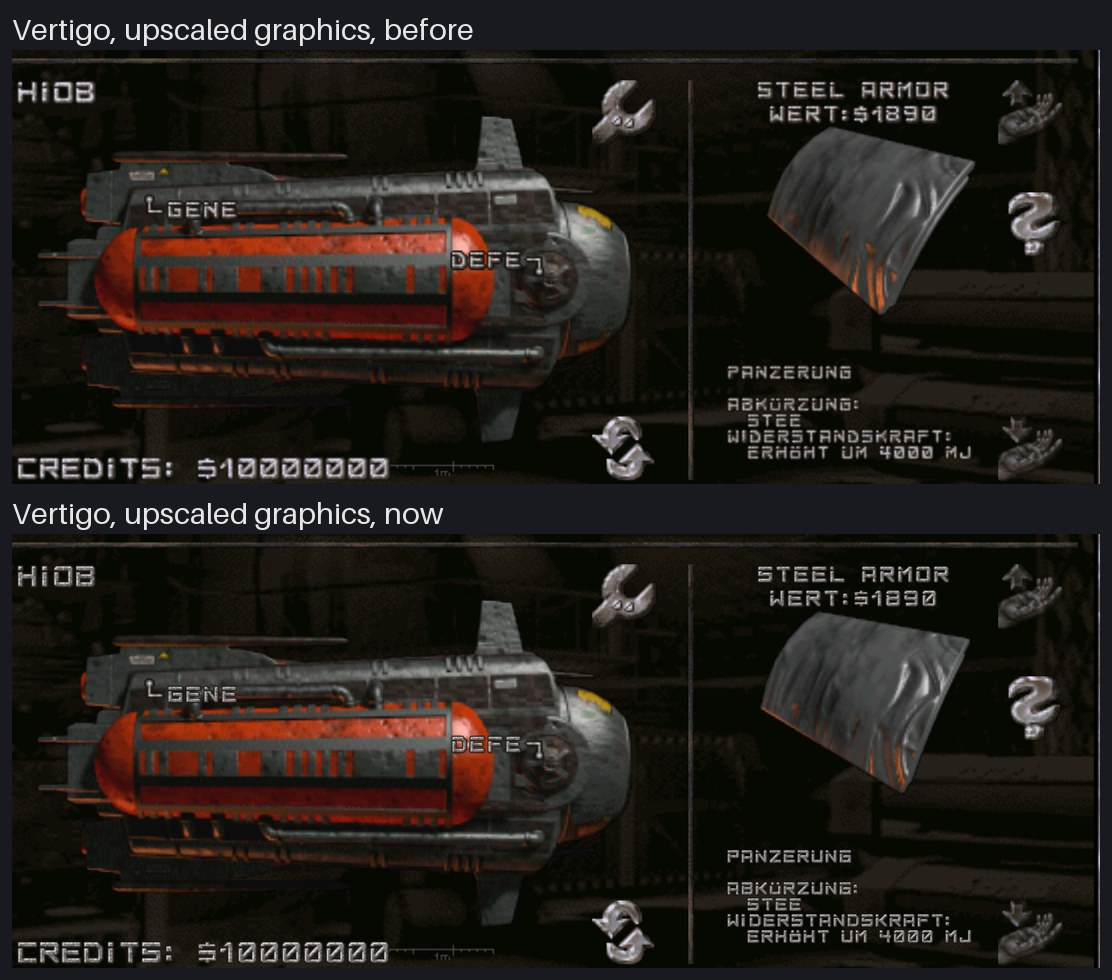
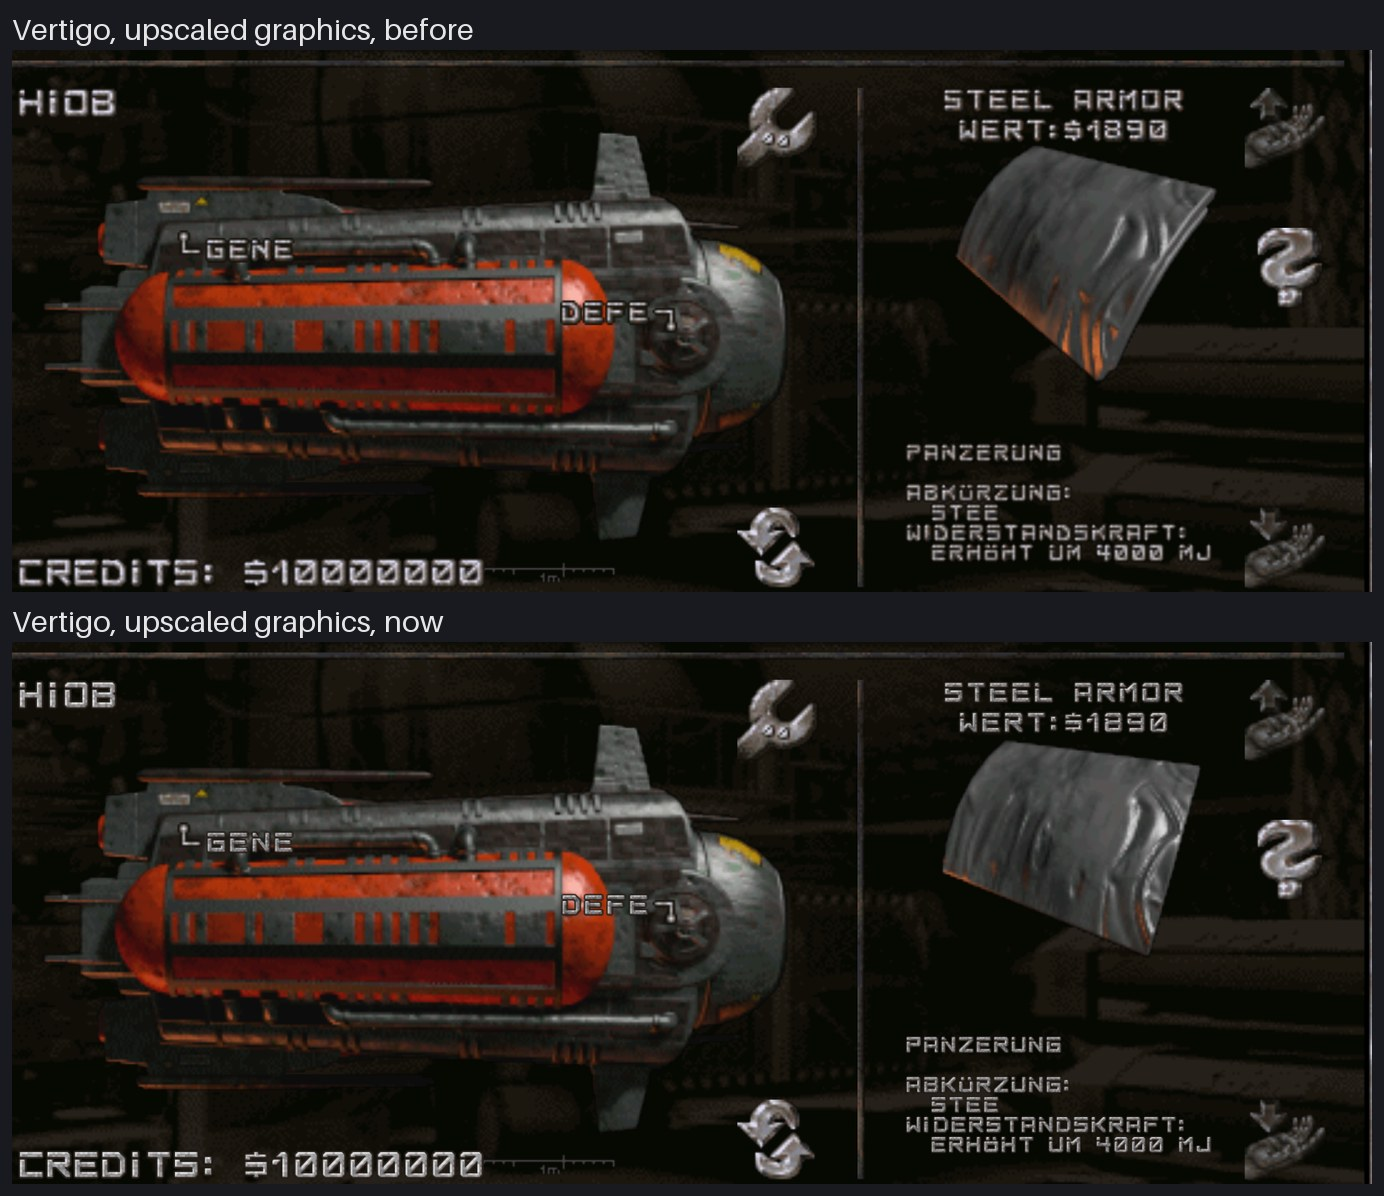
Font: the large vector font as bright as the game's
The game's large font has lighter insides than its medium and small
fonts, which the vector style matches. The large font's vector glyphs
are now brightened inside, not at their outline, with a gamma of 1.4.
The comparison pictures are remade at the screenshots' own scale.

diff --git a/src/gfx/font.cpp b/src/gfx/font.cpp
@@ -63,13 +63,14 @@ const VectorFont* vectorFont()
 
 // the vector font's glyph for a game glyph, as opaque as the game glyph is (the depot draws a
 // half transparent silver font)
-Image vectorGlyph(const VectorFont &font, int index, const Image &image, int scale, double size, const std::vector<Rgb> &palette)
+Image vectorGlyph(const VectorFont &font, int index, const Image &image, int scale, double size, double gamma,
+                  const std::vector<Rgb> &palette)
 {
     int opacity = 0;
     for (int y = 0; y < image.height(); y++)
         for (int x = 0; x < image.width(); x++)
             opacity = std::max(opacity, int(alpha(image.pixel(x, y))));
-    Image glyph = font.render(index, image.width(), image.height(), scale, image, palette, size);
+    Image glyph = font.render(index, image.width(), image.height(), scale, image, palette, size, gamma);
     if (opacity > 0 && opacity < 255)
         for (int y = 0; y < glyph.height(); y++) {
             std::uint8_t *texel = glyph.scanLine(y);
@@ -124,9 +125,11 @@ void FontPrivate::load(const String &filename, const ColorTable &colorTable, boo
         return name.size() >= end.size() && name.compare(name.size() - end.size(), end.size(), end) == 0;
     };
     const bool vector = !m_alpha && (endsWith("dplarge.fnt") || endsWith("dpmedium.fnt") || endsWith("dpsmall.fnt"));
-    // the large font's vector glyphs as high as the game's, the medium and small font's at 90%
+    // the large font's vector glyphs as high as the game's and brightened to its glyphs' light
+    // insides, the medium and small font's at 90%
     m_vectorLarge = endsWith("dplarge.fnt");
     m_vectorSize = m_vectorLarge ? 1 : 0.9;
+    m_vectorGamma = m_vectorLarge ? 1.4 : 1;
 
     int maxHeight = 0;
     int x = 1;
@@ -269,7 +272,7 @@ bool FontPrivate::prepareVector()
         for (std::size_t i = 0; i < m_images.size(); i++) {
             const Image &image = m_images[i];
             m_vectorTexture.update(places[i].x, places[i].y, drawnAs[i]
-                ? vectorGlyph(*font, drawnAs[i], image, scale, m_vectorSize, palette)
+                ? vectorGlyph(*font, drawnAs[i], image, scale, m_vectorSize, m_vectorGamma, palette)
                 : image.scaled(image.width()*scale, image.height()*scale));
             RectF rect;
             rect.x = places[i].x / float(res);

diff --git a/src/gfx/vectorfont.cpp b/src/gfx/vectorfont.cpp
@@ -311,7 +311,7 @@ double VectorFont::random(std::uint32_t glyph, std::uint32_t x, std::uint32_t y,
 }
 
 
-Image VectorFont::render(int code, int w, int h, int scale, const Image &original, const std::vector<Rgb> &palette, double size) const
+Image VectorFont::render(int code, int w, int h, int scale, const Image &original, const std::vector<Rgb> &palette, double size, double gamma) const
 {
     Image image(w*scale, h*scale, Image::RGBA8888);
     const auto found = m_glyphs.find(code);
@@ -416,6 +416,9 @@ Image VectorFont::render(int code, int w, int h, int scale, const Image &origina
                             for (double &channel : c)
                                 channel = (1 - s.grainAmount)*channel + s.grainAmount*blend(mode, channel, g);
                         }
+                        if (gamma != 1)
+                            for (double &channel : c)
+                                channel = std::pow(std::clamp(channel, 0.0, 1.0), 1/gamma);
                     }
                     for (int k = 0; k < 3; k++)
                         sum[k] += c[k];

diff --git a/src/gfx/vectorfont.h b/src/gfx/vectorfont.h
@@ -50,8 +50,10 @@ public:
     // there; the palette is the game's glyph colours, for the style that snaps to them. The
     // cell's height takes size times the box's, centred on the box; a box less than 12 pixels
     // high is a smaller font's, as many pixels narrower as it is lower than the large font's.
+    // Above 1, gamma brightens the glyph's inside (not its outline): its colours are raised to
+    // the power of 1/gamma.
     Image render(int code, int w, int h, int scale, const Image &original = Image(),
-                 const std::vector<Rgb> &palette = {}, double size = 1) const;
+                 const std::vector<Rgb> &palette = {}, double size = 1, double gamma = 1) const;
 
     // the grain's random value of a cell, 0 to 1, as the editor makes it
     static double random(std::uint32_t glyph, std::uint32_t x, std::uint32_t y, std::uint32_t seed);

diff --git a/tests/vectorfonttest.cpp b/tests/vectorfonttest.cpp
@@ -76,6 +76,10 @@ int main()
     // half the texel across the edge
     CHECK_EQUAL(alpha(image, 17, 12), 255);
     CHECK_EQUAL(alpha(image, 2, 12), 255);
+    // a gamma of 2 brightens the inside to the square root of its grey, not the outline
+    image = vector.render(0x41, 11, 12, 2, gfx::Image(), {}, 1, 2);
+    CHECK_EQUAL(red(image, 11, 12), int(std::lround(std::sqrt(0xa0/255.0)*255)));
+    CHECK_EQUAL(red(image, 3, 12), 0x10);
     // a bevelled corner leaves out its tip, a mitred one doesn't
     CHECK_EQUAL(alpha(image, 2, 2), 0);
     CHECK(vector.parse(font("{ \"outline\": { \"on\": true, \"color\": \"#102030\", \"width\": 1, \"join\": \"miter\" }, "

diff --git a/src/gfx/font.h b/src/gfx/font.h
@@ -72,6 +72,7 @@ private:
     int m_vectorState = 0;  // 0 not tried yet, 1 made, -1 not to be had
     bool m_vectorLarge = false;  // the large font, whose glyphs have places of their own
     double m_vectorSize = 1;  // the vector glyphs' height as a part of the game glyphs'
+    double m_vectorGamma = 1;  // the gamma that brightens the vector glyphs' insides
 };
 
 

diff --git a/data/font/README.md b/data/font/README.md
@@ -40,7 +40,9 @@ With the upscaled graphics on, Vertigo draws the silver fonts (large, medium
 and small) from `vertigo-mono.json`, which the build copies next to the program
 (`font/vertigo-mono.json`, in `share/vertigo/font` when installed): each glyph
 over the box of the game's glyph it replaces, so text keeps the game's widths,
-in the editor's style, eight texels per game pixel. The medium and small fonts
+in the editor's style, eight texels per game pixel. The large font's glyphs are
+brightened inside (gamma 1.4) to the game's lighter large font; the medium and
+small fonts
 take the glyphs shrunk to their lower boxes, at 90% of their height, centred on
 them. The game's small letters
 are its capitals, so they take the capitals' vector glyphs; a glyph without a
